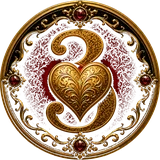
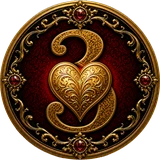
Campaign: heart-themed gold crest art for all House of Hearts levels (101-200)
Replaces the placeholder medallion art on levels 101-130 and adds crests
for 131-200, using the same flood-fill background removal pipeline as
the rest of the campaign's gold art. Bumps sw.js's CACHE (v18) since
101-130 are in-place overwrites of a runtime-cached, non-ASSETS filename.

diff --git a/public/sw.js b/public/sw.js
@@ -74,7 +74,7 @@
 // colour, comfortably inside the standard ~80% maskable safe zone. The
 // two 'any'-purpose icons and the Apple touch icon stay plain resizes,
 // same convention as the icon they replaced.
-const CACHE = 'ddp-v17';
+const CACHE = 'ddp-v18';
 const ASSETS = ['/', '/manifest.json', '/icon-192.png', '/icon-512.png', '/apple-touch-icon.png',
                 '/brand/marquee-logo.webp', '/brand/marquee-splash-portrait.webp'];
 
